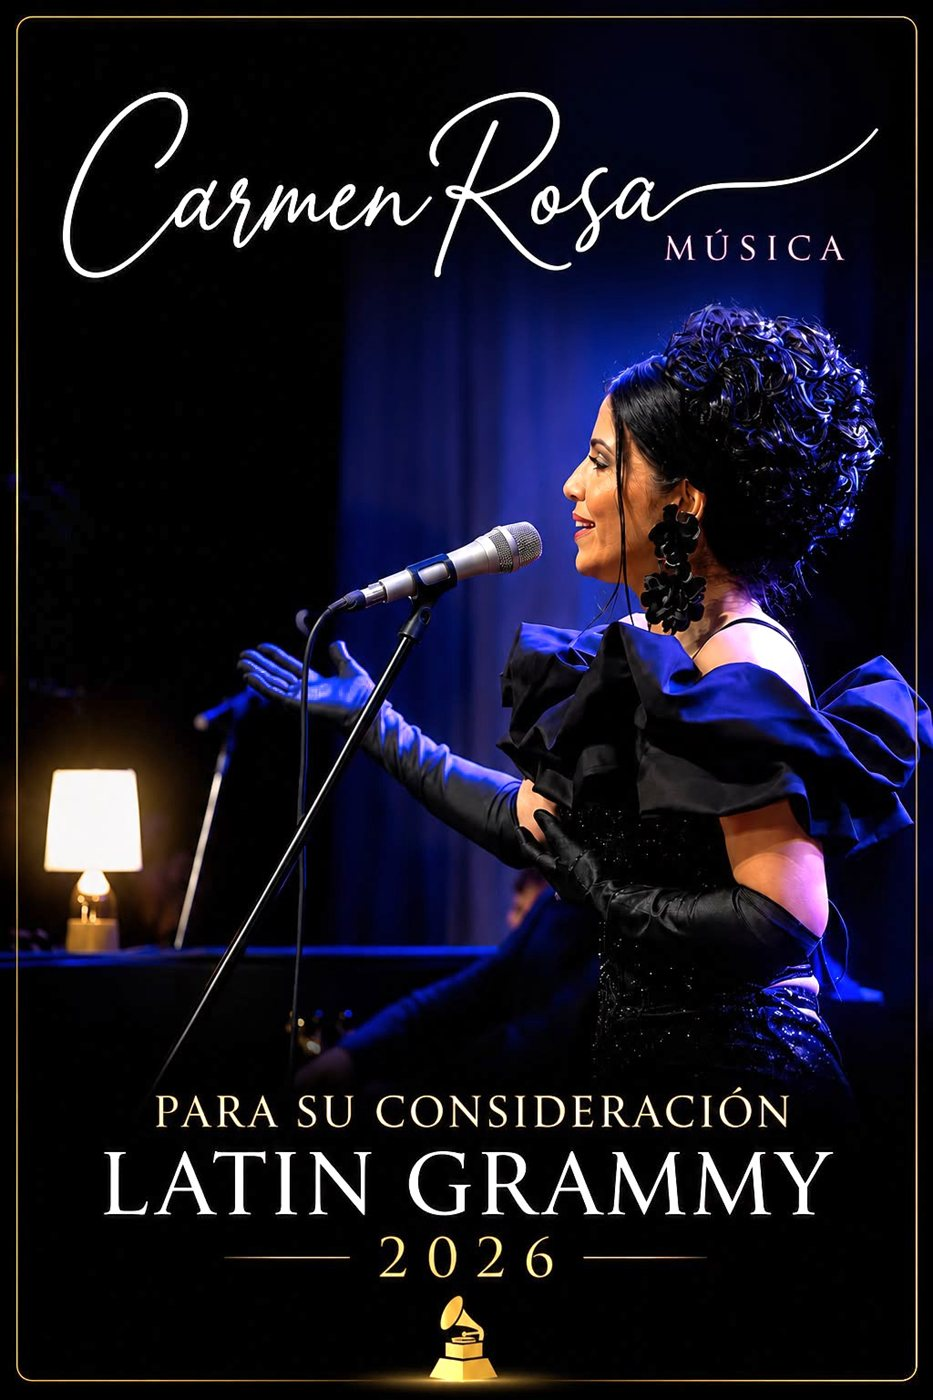
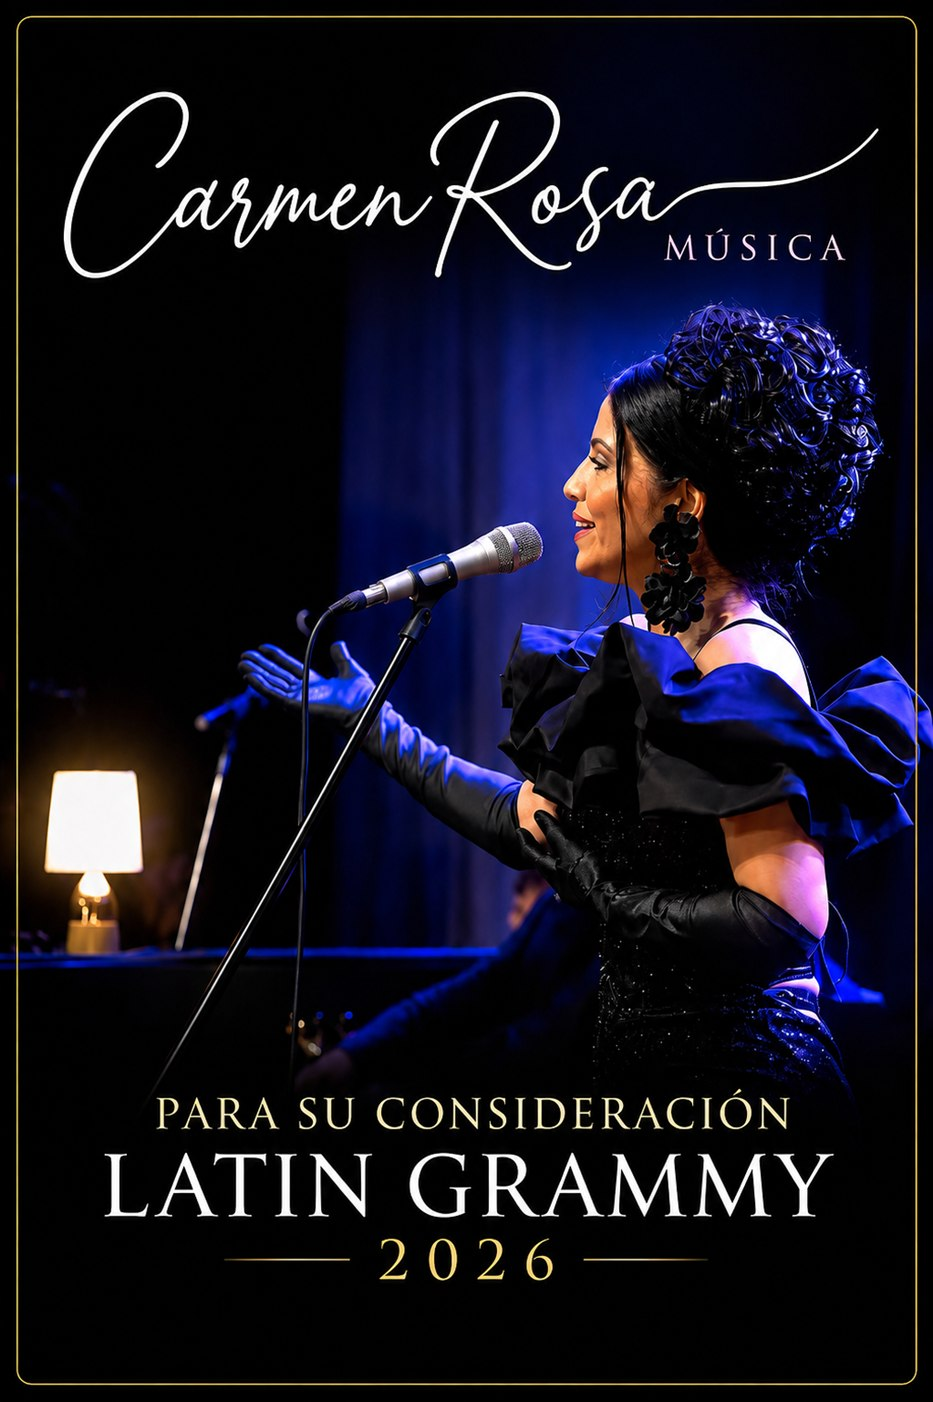
feat: nueva portada sin el icono del gramofono de los Latin Grammy

diff --git a/index.html b/index.html
@@ -49,7 +49,7 @@
 <main style="width:100%; max-width:700px; background:#060608; border-left:1px solid rgba(203,177,122,0.16); border-right:1px solid rgba(203,177,122,0.16); display:flex; flex-direction:column;">
 
   <section id="inicio" style="display:flex; flex-direction:column;">
-    <img src="assets/img/portada-fyc.jpg" width="933" height="1400" alt="Carmen Rosa — Para su consideración, Latin Grammy 2026" style="display:block; width:100%; height:auto;">
+    <img src="assets/img/portada-fyc.jpg" width="933" height="1402" alt="Carmen Rosa — Para su consideración, Latin Grammy 2026" style="display:block; width:100%; height:auto;">
     <div style="display:flex; flex-direction:column; align-items:center; gap:22px; padding:clamp(36px,8vw,56px) clamp(20px,7vw,48px) 30px; text-align:center;">
       <div style="width:44px; height:1px; background:rgba(203,177,122,0.7);"></div>
       <h1 style="margin:0; font-family:'Pinyon Script',cursive; font-weight:400; font-size:clamp(30px,4.5vw,42px); color:#e3cfa0; line-height:1.2;">Carmen Rosa Sinfónico — Derrama Tu Gracia</h1>
